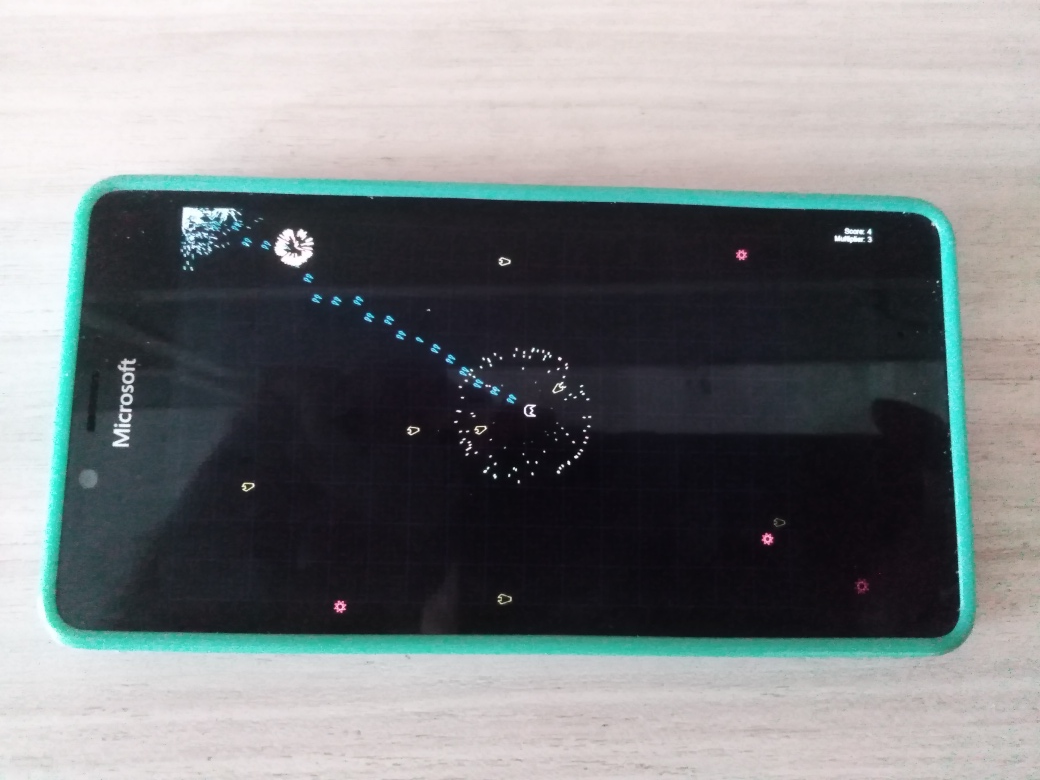
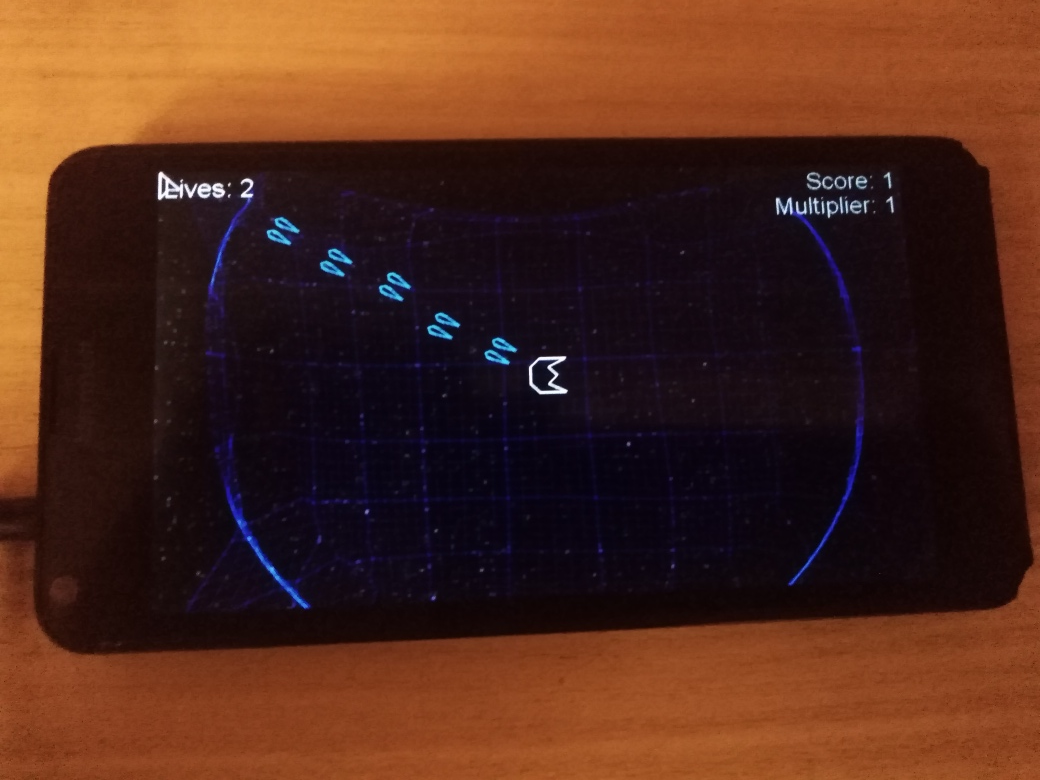
.

diff --git a/Src/NeonShooter.Core/NeonShooterGame.cs b/Src/NeonShooter.Core/NeonShooterGame.cs
@@ -1,3 +1,8 @@
+//-----------------------------------------------------------------------------
+// NeonShooterGame.cs
+//-----------------------------------------------------------------------------
+
+
 using BloomPostprocess;
 using Microsoft.Xna.Framework;
 using Microsoft.Xna.Framework.Graphics;
@@ -15,8 +20,15 @@ namespace NeonShooter
     /// </summary>
     public class NeonShooterGame: Microsoft.Xna.Framework.Game
     {
-		// some helpful static properties
-		public static NeonShooterGame Instance { get; private set; }
+        // Resources for drawing.
+        private GraphicsDeviceManager graphics;
+        private SpriteBatch spriteBatch;
+        Vector2 baseScreenSize = new Vector2(800, 480);
+        private Matrix globalTransformation;
+        int backbufferWidth, backbufferHeight;
+
+        // some helpful static properties
+        public static NeonShooterGame Instance { get; private set; }
 		public static Viewport Viewport 
         { 
             get 
@@ -31,8 +43,8 @@ namespace NeonShooter
             { 
                 return new Vector2
                 (
-                    Viewport.Width, 
-                    Viewport.Height
+                    800/*Viewport.Width*/, 
+                    480/*Viewport.Height*/
                ); 
             } 
         }
@@ -40,8 +52,8 @@ namespace NeonShooter
 		public static ParticleManager<ParticleState> ParticleManager { get; private set; }
 		public static Grid Grid { get; private set; }
 
-		GraphicsDeviceManager graphics;
-		SpriteBatch spriteBatch;
+		//GraphicsDeviceManager graphics;
+		//SpriteBatch spriteBatch;
 		BloomComponent bloom;
 
 		bool paused = false;
@@ -51,10 +63,14 @@ namespace NeonShooter
         {
 			Instance = this;
 			graphics = new GraphicsDeviceManager(this);
-
+#if WINDOWS_PHONE
+            TargetElapsedTime = TimeSpan.FromTicks(333333);
+#endif
             //graphics.PreferredBackBufferWidth = 800;//1920;
             //graphics.PreferredBackBufferHeight = 600;//1080;
             graphics.IsFullScreen = true;// true;
+            graphics.SupportedOrientations = DisplayOrientation.LandscapeLeft
+               | DisplayOrientation.LandscapeRight;// | DisplayOrientation.Portrait;
 
             bloom = new BloomComponent(this);
 			Components.Add(bloom);
@@ -66,6 +82,10 @@ namespace NeonShooter
         {
             this.Content.RootDirectory = "Content";
 
+            //RnD
+            // Create a new SpriteBatch, which can be used to draw textures.
+            spriteBatch = new SpriteBatch(GraphicsDevice);
+
             ParticleManager = new ParticleManager<ParticleState>
                 (1024 * 20, 
                 ParticleState.UpdateParticle
@@ -75,6 +95,9 @@ namespace NeonShooter
             Vector2 gridSpacing = new Vector2((float)Math.Sqrt(
                 Viewport.Width * Viewport.Height / maxGridPoints));
             Grid = new Grid(Viewport.Bounds, gridSpacing);
+
+            //RnD
+            ScalePresentationArea();
 
             base.Initialize();
         }
@@ -104,7 +127,30 @@ namespace NeonShooter
             }
             catch { }
 #endif
+        }//LoadContent
+
+
+        //RnD
+        public void ScalePresentationArea()
+        {
+            //Work out how much we need to scale our graphics to fill the screen
+            backbufferWidth = GraphicsDevice.PresentationParameters.BackBufferWidth - 0; // 40 - dirty hack for Astoria!
+            backbufferHeight = GraphicsDevice.PresentationParameters.BackBufferHeight;
+
+            float horScaling = backbufferWidth / baseScreenSize.X;
+            float verScaling = backbufferHeight / baseScreenSize.Y;
+
+            Vector3 screenScalingFactor = new Vector3(horScaling, verScaling, 1);
+
+            globalTransformation = Matrix.CreateScale(screenScalingFactor);
+
+            System.Diagnostics.Debug.WriteLine("Screen Size - Width["
+                + GraphicsDevice.PresentationParameters.BackBufferWidth + "] " +
+                "Height [" + GraphicsDevice.PresentationParameters.BackBufferHeight + "]");
         }
+
+
+
 
         /// <summary>
         /// Allows the game to run logic such as updating the world,
@@ -113,6 +159,14 @@ namespace NeonShooter
         /// <param name="gameTime">Provides a snapshot of timing values.</param>
         protected override void Update(GameTime gameTime)
         {
+            //Confirm the screen has not been resized by the user
+            if (backbufferHeight != GraphicsDevice.PresentationParameters.BackBufferHeight ||
+                backbufferWidth != GraphicsDevice.PresentationParameters.BackBufferWidth)
+            {
+                ScalePresentationArea();
+            }
+
+
             GameTime = gameTime;
             Input.Update();
 
@@ -148,19 +202,28 @@ namespace NeonShooter
 
             GraphicsDevice.Clear(Color.Black);
 
-            spriteBatch.Begin(SpriteSortMode.Texture, BlendState.Additive);
+            //RnD
+            spriteBatch.Begin(SpriteSortMode.Texture, BlendState.Additive,//); 
+                null, null, null, null, globalTransformation);
+            
             EntityManager.Draw(spriteBatch);
+            
             spriteBatch.End();
 
-            spriteBatch.Begin(SpriteSortMode.Deferred, BlendState.Additive);
+            spriteBatch.Begin(SpriteSortMode.Deferred, BlendState.Additive,//);
+                 null, null, null, null, globalTransformation);
+
             Grid.Draw(spriteBatch);
+            
             ParticleManager.Draw(spriteBatch);
+            
             spriteBatch.End();
 
             base.Draw(gameTime);
 
             // Draw the user interface without bloom
-            spriteBatch.Begin(SpriteSortMode.Deferred, BlendState.Additive);
+            spriteBatch.Begin(SpriteSortMode.Deferred, BlendState.Additive,//);
+                 null, null, null, null, globalTransformation);
 
             DrawTitleSafeAlignedString("Lives: " + PlayerStatus.Lives, 5);
             DrawTitleSafeRightAlignedString("Score: " + PlayerStatus.Score, 5);

diff --git a/README.md b/README.md
@@ -1,4 +1,4 @@
-# GeoWar - Neon branch
+# GeoWar - Neon branch ("NeonShooter" v1.0.14.0)
 ![](Images/logo.png)
 
 ## About
@@ -11,7 +11,7 @@ Main goal: do some testing/exploration of new "native" (not mine/not tweaked) Mo
 ![](Images/shot01.png)
 ![](Images/shot02.png)
 ![](Images/shot03.png)
-![](Images/shot04.png)
+
 
 ## How to create this UWP XNA game?
 Follow the Something Random youtube channel for development updates: 
@@ -26,13 +26,14 @@ https://www.youtube.com/channel/UCdbQJRNyC7JdgvsxZLNhCzw
 - Game speed encreazed to better sync with music theme:)
 - Original kbd control still presend for desktop mode. 
 - Fullscreen mode not distorted "header"/"footer" -- so interesting :)
+- Screen autosizing fixed (Game "autoscale" mode activated ))
 
 ## GameDev: How-to
 https://gamedevelopment.tutsplus.com/tutorials/make-a-neon-vector-shooter-in-xna-basic-gameplay--gamedev-9859
 
 ## ToDo
 - Explore TouchPanel deals
-- Do screen rescaling for better game speed (performance) & UI usability ;)
+- Improve UI usability via some cool game mechanics (for example, on-screen buttons / virtual pad)
 
 ## References
 - https://github.com/Nixxs/GeoWar Nixxs's GeoWar
